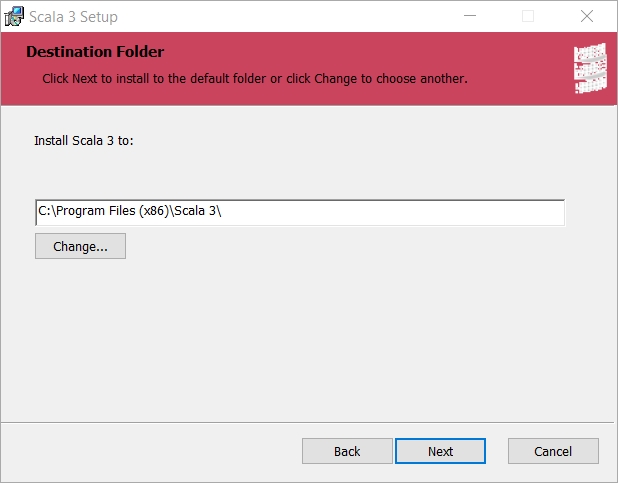
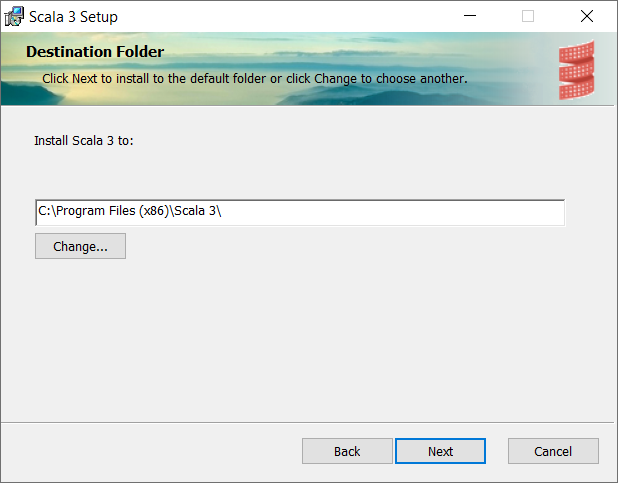
updated installer images

diff --git a/scala3-examples/README.md b/scala3-examples/README.md
@@ -109,14 +109,14 @@ Y:\examples\Scala3UI
     └───<b>resources</b>
             <a href="./Scala3UI/src/resources/BannerTop.bmp">BannerTop.bmp</a>
             <a href="./Scala3UI/src/resources/Dialog.bmp">Dialog.bmp</a>
-            <a href="./Scala3UI/src/resources/dotty-logo-white.svg">dotty-logo-white.svg</a>
+            <a href="./Scala3UI/src/resources/logo.svg">logo.svg</a>
             favicon.ico
             LICENSE.rtf
             network.ico
             <a href="./Scala3UI/src/resources/repl.bat">repl.bat</a>
 </pre>
 
-Figures **2.1** to **2.4** below illustrate the dialog windows of the Windows installer while figures **2.5** and **2.6** show the updated user environment after the successful execution of the Windows installer.
+Figures **2.1** to **2.4** below illustrate the dialog windows of the Windows installer while figures **2.5** and **2.6** show the updated user environment after the successful execution of the [Scala 3][scala3] Windows installer.
 
 <table>
 <tr>
@@ -178,7 +178,7 @@ Y:\examples\Scala3Localized
     └───<b>resources</b>
             <a href="./Scala3Localized/src/resources/BannerTop.bmp">BannerTop.bmp</a>
             <a href="./Scala3Localized/src/resources/Dialog.bmp">Dialog.bmp</a>
-            <a href="./Scala3Localized/src/resources/dotty-logo-white.svg">dotty-logo-white.svg</a>
+            <a href="./Scala3Localized/src/resources/logo.svg">logo.svg</a>
             favicon.ico
             LICENSE.rtf
             network.ico

diff --git a/examples/README.md b/examples/README.md
@@ -167,6 +167,19 @@ Y:\examples\MyAppLocalized
 
 *tbd*
 
+<table>
+<tr>
+<td style="text-align:center;">
+  <a href="images/MyAppFeatures_Welcome.png"><img style="max-width:180px;" src="images/MyAppFeatures_Welcome.png" /></a>
+  <div style="font-size:70%;"><b>Figure 4.1 -</b> Welcome<br>(<i>MyApp</i> installer).
+</td>
+<td style="text-align:center;">
+  <a href="images/MyAppFeatures_Custom.png"><img style="max-width:180px;" src="images/MyAppFeatures_Custom.png" /></a>
+  <div style="font-size:70%;"><b>Figure 4.2 -</b> Custom Setup<br/>(<i>MyApp</i> installer).
+</td>
+</tr>
+</table>
+
 ## <span id="uberAgent">uberAgent</span>
 
 Example `uberAgent` is adapted from Helge Klein's blog entry [Real-World Example: WiX/MSI Application Installer][uberAgent] (February 2021).
